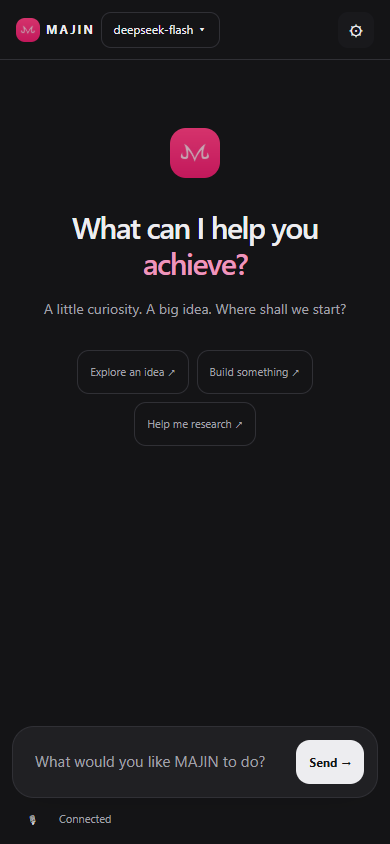
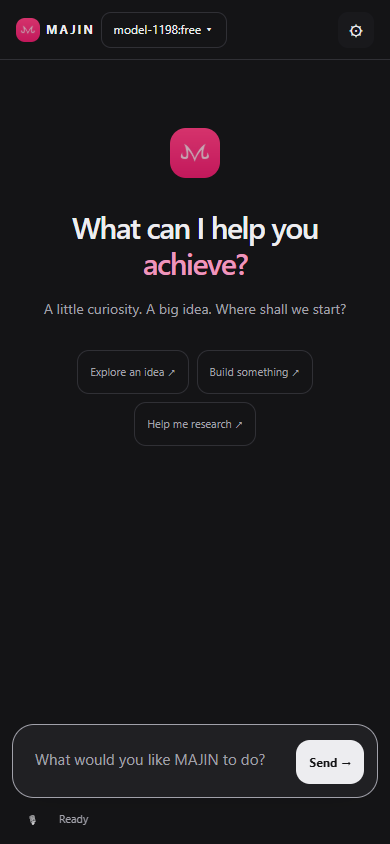
fix(ui): reset failed draft and activity when starting a new chat

diff --git a/src/ui/app.js b/src/ui/app.js
@@ -983,6 +983,8 @@ async function refresh(quiet) {
   }
 }
 async function loadHistory() {
+  S.readingHistory = false; S.failed = false; S.cur = null; S.curBody = '';
+  setStatus('Ready');
   if (window.MAJIN_IMAGINE) window.MAJIN_IMAGINE.reset();
   const h = await api('/history?session=' + encodeURIComponent(S.session) + '&n=40').catch(() => ({ messages: [] }));
   $('scroller').innerHTML = '';
@@ -1024,6 +1026,7 @@ function showWelcome() {
 $('new-chat').onclick = async () => {
   if (S.busy) { toast('Stop the current task before starting a new chat.'); return; }
   S.session = 'chat-' + Date.now().toString(36);
+  $('input').value = ''; autoGrow();
   await loadHistory(); $('input').focus();
 };
 $('browse-models').onclick = () => window.MAJIN_ONBOARD.togglePicker();

diff --git a/docs/PHOENIX_HANDOVER.md b/docs/PHOENIX_HANDOVER.md
@@ -30,7 +30,7 @@ On Windows with Edge already installed: set `MAJIN_UI_BROWSER=msedge`. Set `MAJI
 - Windows Edge acceptance passed: real startup and token injection; 1,200-entry fixture catalog; pagination, search, Free filter, exact-ID persistence, Escape and focus; six provider error statuses; no false success or routing spam; streamed answer; new chat; 390px viewport; real backend demo response and Stop; 300-message history scroll preservation (165ms in one local run, not a hardware-wide performance guarantee).
 - All source files parsed; i18n passed; standalone CJS bundle built with both new browser assets copied to dist/ui.
 - Live OpenRouter `/models`: 470 models, 20 verified zero-charge entries. This is catalog access, not proof of account inference access.
-- Supplied OpenCode key: one minimal Go inference request attempted using longcat-2.5-preview-free; request timed out without an HTTP response. No credential or balance diagnosis is established. No successful external-model reply is claimed.
+- Supplied OpenCode key: one minimal Go inference request attempted using longcat-2.5-preview-free; request timed out without an HTTP response. No credential or balance diagnosis is established. A separate Zen endpoint attempt returned HTTP 403. No successful external-model reply is claimed.
 - Local full-suite run after dependencies: 407 tests / 386 pass / 7 fail / 14 skipped. These include Windows-specific shell, path separator, raw CRLF/source assertions. The untouched baseline also fails these categories; environment keys additionally affected two baseline assertions. The setup-payload assertion ran only after build dependencies were installed and rejects Windows backslashes despite the payload containing the files. CI is the Linux regression gate; see the PR's actual checks, not these local counts, for merge readiness.
 
 ## Evidence
